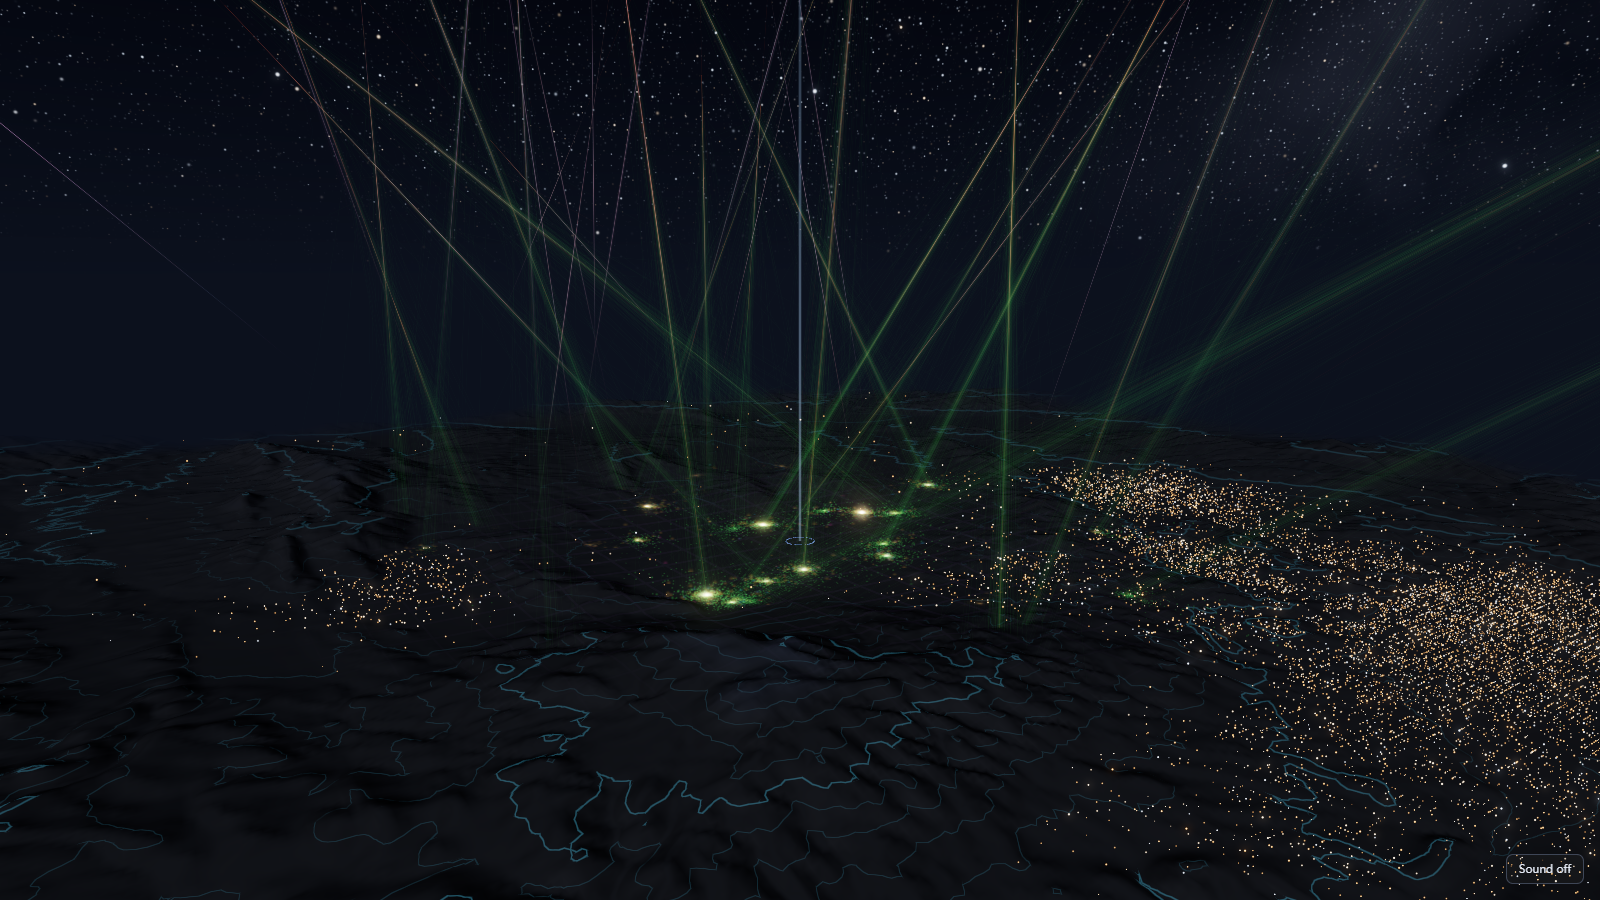
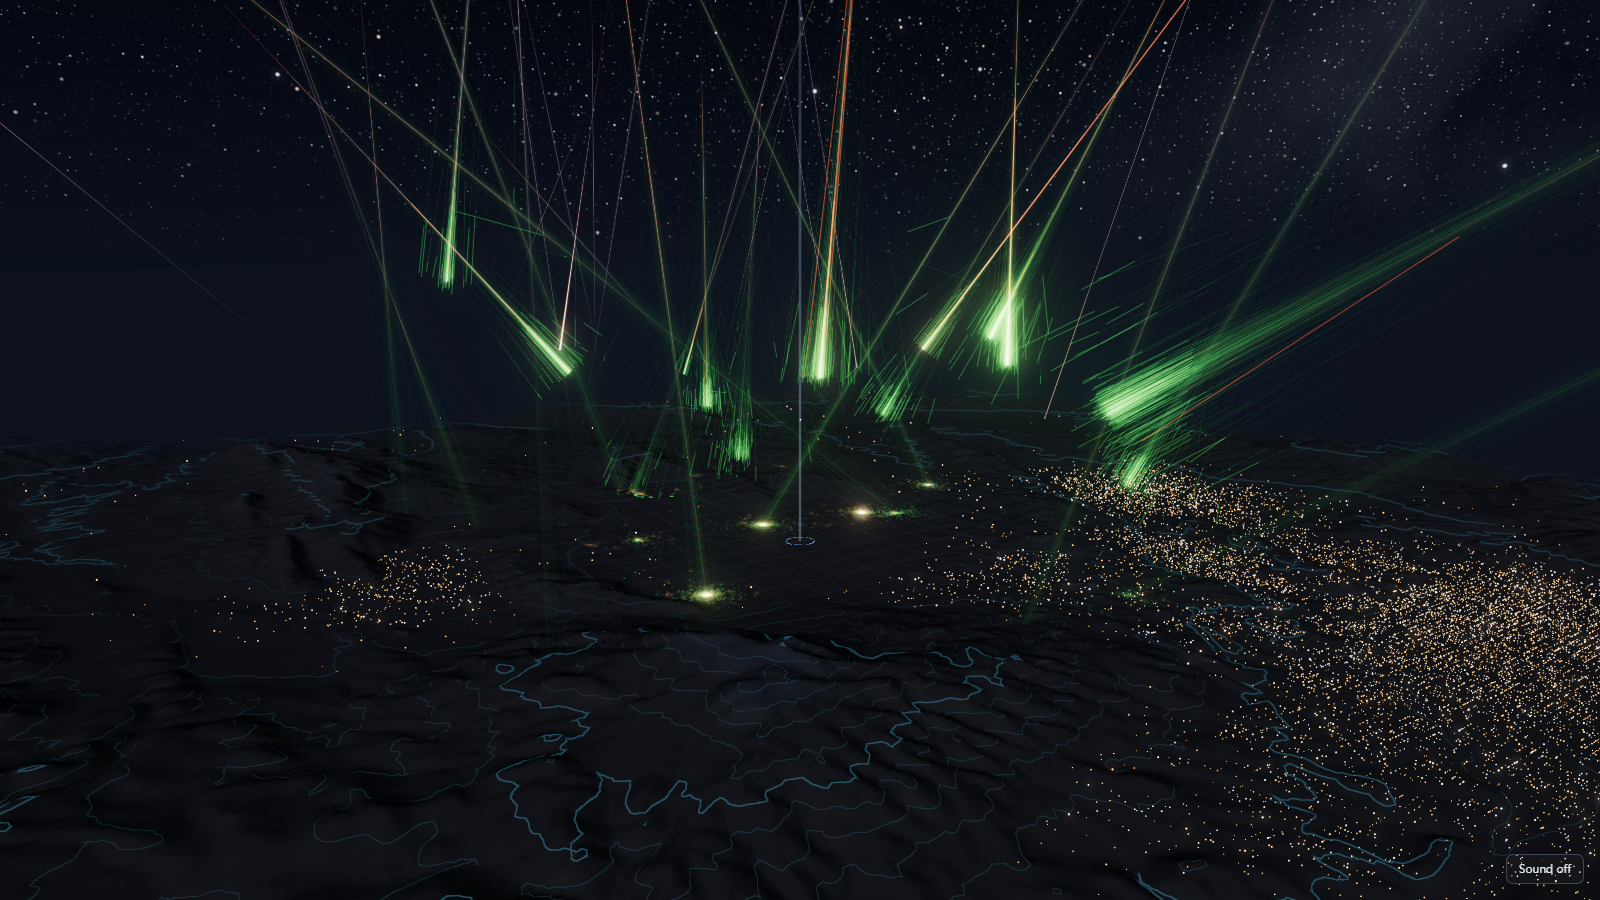
EOWC-CHG-20261126-015: Run sky mode on a pool of workers
planSky draws the arrivals and shower parameters (seeded, pure);
showers run in parallel on up to hardwareConcurrency - 1 workers (max 8);
mergeSky puts them on the common clock. Sequential simulateSky kept for
tests. 36 showers: ~9 s -> ~2 s. Sound button hidden in clean mode.

Claude-Session: https://claude.ai/code/session_01Gyk7Xu6P7vpPZ5udwuQcZq

diff --git a/Cascade/src/physics/sky.ts b/Cascade/src/physics/sky.ts
@@ -4,7 +4,7 @@
 // simulated and merged into one replay on a common clock.
 import { simulateShower, DEFAULT_PARAMS } from './cascade';
 import { Rng } from './rng';
-import { GND_STRIDE, RCLASS_COUNT, SEG_STRIDE, type Primary, type ShowerResult } from './types';
+import { GND_STRIDE, RCLASS_COUNT, SEG_STRIDE, type Primary, type ShowerParams, type ShowerResult } from './types';
 
 export interface SkyOptions {
   showers: number;
@@ -50,86 +50,114 @@ function integralFlux(eEV: number): number {
   return below + (atKnee * knee) / 2.1;
 }
 
-export function simulateSky(o: SkyOptions, onProgress?: (f: number, tracked: number) => void): { result: ShowerResult; info: SkyInfo; brightest: ShowerResult } {
+export interface SkyPlan {
+  options: SkyOptions;
+  /** Parameters of each shower, in arrival order. */
+  params: ShowerParams[];
+  /** Arrival time of each shower's core at the ground, ns. */
+  arrivals: number[];
+  ratePerSecond: number;
+}
+
+/** Draw the showers: Poisson arrivals, energies, composition, directions, cores. Pure and seeded. */
+export function planSky(o: SkyOptions): SkyPlan {
   const rng = new Rng(o.seed);
   const perShower = Math.max(2000, Math.floor(o.maxSegments / o.showers));
-  const segs: Float32Array[] = [];
-  const gnds: Float32Array[] = [];
-  const energies: number[] = [];
-  const prims: Primary[] = [];
-  let tracked = 0;
-  let best: ShowerResult | null = null;
-  let bestShift = 0;
-  let bestE = 0;
-  let segTotal = 0, gndTotal = 0;
-  let tMin = Infinity, tMax = -Infinity;
-  const profiles: ShowerResult['profile'][] = [];
   const area = (2 * o.halfWidthM) ** 2;
   const rate = integralFlux(o.eMinEV) * Math.PI * 0.75 * area; // showers per second above eMin into the square
+  const params: ShowerParams[] = [];
+  const arrivals: number[] = [];
   let tArrive = 0;
-  let firstCore = Infinity;
   for (let k = 0; k < o.showers; k++) {
     tArrive += rng.exp(1e9 / rate); // ns
-    // Differential spectrum E^-2.7 (inverse CDF); the knee is above where most land anyway.
+    // Differential spectrum E^-2.7 (inverse CDF); the knee is above where nearly all of them land.
     const a = Math.pow(o.eMinEV, -1.7), bq = Math.pow(o.eMaxEV, -1.7);
     const E = Math.pow(a - rng.uniform() * (a - bq), -1 / 1.7);
     const u = rng.uniform();
     const primary: Primary = u < 0.45 ? 'proton' : u < 0.75 ? 'helium' : u < 0.9 ? 'nitrogen' : 'iron';
     const cosT = Math.sqrt(1 - rng.uniform() * 0.75); // up to 60 deg, flux through a horizontal plane
-    const r = simulateShower({
-      ...DEFAULT_PARAMS,
-      primary,
-      energyEV: E,
-      zenithDeg: (Math.acos(cosT) * 180) / Math.PI,
-      azimuthDeg: 360 * rng.uniform(),
-      seed: (o.seed * 7919 + k * 104729) >>> 0,
-      thinning: o.thinning,
-      maxSegments: perShower,
-      coreX: (rng.uniform() * 2 - 1) * o.halfWidthM,
-      coreY: (rng.uniform() * 2 - 1) * o.halfWidthM,
-      recordTracks: true,
+    const azimuthDeg = 360 * rng.uniform();
+    const coreX = (rng.uniform() * 2 - 1) * o.halfWidthM;
+    const coreY = (rng.uniform() * 2 - 1) * o.halfWidthM;
+    params.push({
+      ...DEFAULT_PARAMS, primary, energyEV: E, zenithDeg: (Math.acos(cosT) * 180) / Math.PI, azimuthDeg,
+      seed: (o.seed * 7919 + k * 104729) >>> 0, thinning: o.thinning, maxSegments: perShower, coreX, coreY, recordTracks: true,
     });
-    tracked += r.stats.particlesTracked;
-    // Put the core's arrival at its Poisson arrival time.
-    const shift = tArrive - r.stats.tCore;
-    firstCore = Math.min(firstCore, tArrive);
+    arrivals.push(tArrive);
+  }
+  return { options: o, params, arrivals, ratePerSecond: rate };
+}
+
+/** Put every simulated shower on the common clock and merge them into one replay. Mutates the inputs' arrays. */
+export function mergeSky(plan: SkyPlan, showers: ShowerResult[]): { result: ShowerResult; info: SkyInfo; brightest: ShowerResult } {
+  let tracked = 0, segTotal = 0, gndTotal = 0;
+  let tMin = Infinity, tMax = -Infinity;
+  let bi = 0;
+  const shifts: number[] = [];
+  showers.forEach((r, k) => {
+    const shift = plan.arrivals[k]! - r.stats.tCore;
+    shifts.push(shift);
     const s = r.segments;
     for (let i = 0; i < r.segmentCount; i++) { s[i * SEG_STRIDE + 3]! += shift; s[i * SEG_STRIDE + 7]! += shift; }
     const g = r.ground;
     for (let i = 0; i < r.groundCount; i++) g[i * GND_STRIDE + 2]! += shift;
     tMin = Math.min(tMin, r.stats.tMin + shift);
     tMax = Math.max(tMax, r.stats.tMax + shift);
-    segs.push(s); gnds.push(g); segTotal += r.segmentCount; gndTotal += r.groundCount;
-    profiles.push(r.profile);
-    energies.push(E); prims.push(primary);
-    if (E > bestE) { bestE = E; best = r; bestShift = shift; }
-    onProgress?.((k + 1) / o.showers, tracked);
-  }
+    tracked += r.stats.particlesTracked;
+    segTotal += r.segmentCount;
+    gndTotal += r.groundCount;
+    if (plan.params[k]!.energyEV > plan.params[bi]!.energyEV) bi = k;
+  });
   const segments = new Float32Array(segTotal * SEG_STRIDE);
-  let off = 0;
-  for (const s of segs) { segments.set(s, off); off += s.length; }
   const ground = new Float32Array(gndTotal * GND_STRIDE);
-  off = 0;
-  for (const g of gnds) { ground.set(g, off); off += g.length; }
+  let so = 0, go = 0;
+  for (const r of showers) {
+    segments.set(r.segments.subarray(0, r.segmentCount * SEG_STRIDE), so); so += r.segmentCount * SEG_STRIDE;
+    ground.set(r.ground.subarray(0, r.groundCount * GND_STRIDE), go); go += r.groundCount * GND_STRIDE;
+  }
+  const profiles = showers.map((r) => r.profile);
   const bins = Math.max(...profiles.map((p) => p.bins));
+  const sum = (pick: (p: ShowerResult['profile']) => Float64Array): Float64Array => {
+    const a = new Float64Array(bins);
+    for (const p of profiles) pick(p).forEach((v, i) => { a[i]! += v; });
+    return a;
+  };
   const profile = {
     step: profiles[0]!.step, bins,
-    byClass: Array.from({ length: RCLASS_COUNT }, (_, c) => { const a = new Float64Array(bins); for (const p of profiles) p.byClass[c]!.forEach((v, i) => { a[i]! += v; }); return a; }),
-    charged: (() => { const a = new Float64Array(bins); for (const p of profiles) p.charged.forEach((v, i) => { a[i]! += v; }); return a; })(),
+    byClass: Array.from({ length: RCLASS_COUNT }, (_, c) => sum((p) => p.byClass[c]!)),
+    charged: sum((p) => p.charged),
   };
-  const b = best!;
+  const b = showers[bi]!;
   // The brightest shower's arrays were shifted onto the common clock; shift its stats too.
-  b.stats = { ...b.stats, tMin: b.stats.tMin + bestShift, tMax: b.stats.tMax + bestShift, tCore: b.stats.tCore + bestShift };
+  b.stats = { ...b.stats, tMin: b.stats.tMin + shifts[bi]!, tMax: b.stats.tMax + shifts[bi]!, tCore: b.stats.tCore + shifts[bi]! };
+  const first = plan.arrivals[0]!, last = plan.arrivals[plan.arrivals.length - 1]!;
   const result: ShowerResult = {
     params: { ...b.params },
     segments, segmentCount: segTotal, ground, groundCount: gndTotal, profile,
-    // The clock window: from shortly before the first core lands to shortly after the last,
-    // so a few slow hadrons do not stretch the replay.
-    stats: { ...b.stats, tMin: Math.max(tMin, firstCore - 60_000), tMax: Math.min(tMax, tArrive + 25_000), particlesTracked: tracked, truncated: true },
+    // From shortly before the first core lands to shortly after the last, so a few slow hadrons
+    // do not stretch the replay.
+    stats: { ...b.stats, tMin: Math.max(tMin, first - 60_000), tMax: Math.min(tMax, last + 25_000), particlesTracked: tracked, truncated: true },
   };
+  const energies = plan.params.map((p) => p.energyEV);
   return {
     result,
     brightest: b,
-    info: { showers: o.showers, realSpanSeconds: tArrive * 1e-9, ratePerSecond: rate, energiesEV: energies, primaries: prims, brightest: energies.indexOf(bestE) },
+    info: {
+      showers: showers.length, realSpanSeconds: last * 1e-9, ratePerSecond: plan.ratePerSecond,
+      energiesEV: energies, primaries: plan.params.map((p) => p.primary), brightest: bi,
+    },
   };
+}
+
+/** Sequential sky (tests, Node): plan, simulate each shower, merge. */
+export function simulateSky(o: SkyOptions, onProgress?: (f: number, tracked: number) => void): { result: ShowerResult; info: SkyInfo; brightest: ShowerResult } {
+  const plan = planSky(o);
+  let tracked = 0;
+  const showers = plan.params.map((p, k) => {
+    const r = simulateShower(p);
+    tracked += r.stats.particlesTracked;
+    onProgress?.((k + 1) / plan.params.length, tracked);
+    return r;
+  });
+  return mergeSky(plan, showers);
 }

diff --git a/Cascade/src/sim/client.ts b/Cascade/src/sim/client.ts
@@ -1,7 +1,7 @@
 // Main-thread wrapper around the simulation worker. A new run cancels the previous
 // one by terminating its worker, so a long shower never blocks a new request.
 import type { ShowerParams, ShowerResult, WorkerRequest, WorkerResponse } from '../physics/types';
-import type { SkyInfo, SkyOptions } from '../physics/sky';
+import { mergeSky, planSky, type SkyInfo, type SkyOptions } from '../physics/sky';
 
 export interface SkyRun { result: ShowerResult; brightest: ShowerResult; info: SkyInfo }
 
@@ -11,6 +11,53 @@ export class SimClient {
   private worker: Worker | null = null;
   private nextId = 1;
   private reject: ((e: Error) => void) | null = null;
+  private pool: Worker[] = [];
+
+  /**
+   * Sky mode on a pool of workers: the plan (arrivals, energies, directions) is drawn here,
+   * the showers run in parallel, and the merge happens on this thread.
+   */
+  async skyParallel(options: SkyOptions, onProgress: Progress): Promise<SkyRun> {
+    this.cancel();
+    const plan = planSky(options);
+    const total = plan.params.length;
+    const n = Math.max(1, Math.min(total, (navigator.hardwareConcurrency || 4) - 1, 8));
+    const results: ShowerResult[] = new Array<ShowerResult>(total);
+    let next = 0, done = 0, tracked = 0;
+    const workers: Worker[] = [];
+    this.pool = workers;
+    try {
+      await new Promise<void>((resolve, reject) => {
+        this.reject = reject;
+        const feed = (w: Worker): void => {
+          if (next >= total) return;
+          const k = next++;
+          w.postMessage({ kind: 'run', id: k + 1, params: plan.params[k]! } satisfies WorkerRequest);
+        };
+        for (let i = 0; i < n; i++) {
+          const w = new Worker(new URL('./worker.ts', import.meta.url), { type: 'module' });
+          workers.push(w);
+          w.onmessage = (ev: MessageEvent<WorkerResponse>) => {
+            const m = ev.data;
+            if (m.kind === 'done') {
+              results[m.id - 1] = m.result;
+              done++;
+              tracked += m.result.stats.particlesTracked;
+              onProgress(done / total, tracked);
+              if (done === total) resolve(); else feed(w);
+            } else if (m.kind === 'error') reject(new Error(m.message));
+          };
+          w.onerror = (e) => reject(new Error(e.message || 'worker error'));
+          feed(w);
+        }
+      });
+    } finally {
+      for (const w of workers) w.terminate();
+      if (this.pool === workers) this.pool = [];
+      this.reject = null;
+    }
+    return mergeSky(plan, results);
+  }
 
   run(params: ShowerParams, onProgress: Progress): Promise<ShowerResult> {
     return this.request({ kind: 'run', id: 0, params }, onProgress) as Promise<ShowerResult>;
@@ -41,6 +88,12 @@ export class SimClient {
   }
 
   cancel(): void {
+    if (this.pool.length) {
+      for (const w of this.pool) w.terminate();
+      this.pool = [];
+      this.reject?.(new Error('cancelled'));
+      this.reject = null;
+    }
     if (this.worker) {
       this.worker.terminate();
       this.worker = null;

diff --git a/Cascade/src/app/main.ts b/Cascade/src/app/main.ts
@@ -138,7 +138,7 @@ async function runSky(): Promise<void> {
   controls.setBusy(0, 'Filling the sky...');
   try {
     const opts = { ...DEFAULT_SKY, seed: skySeed++, maxSegments: SEGMENTS[quality], showers: quality === 'low' ? 20 : DEFAULT_SKY.showers };
-    const { result: r, brightest, info } = await sim.sky(opts, (f, n) => {
+    const { result: r, brightest, info } = await sim.skyParallel(opts, (f, n) => {
       controls.setBusy(f, `Sky: ${Math.round(f * opts.showers)} of ${opts.showers} showers - ${n.toLocaleString()} particles`);
     });
     controls.setBusy(null);

diff --git a/Cascade/src/styles.css b/Cascade/src/styles.css
@@ -831,7 +831,7 @@ button { cursor: pointer; }
 }
 
 /* presentation mode (H key or ?clean) */
-.cx-clean .cx-hud, .cx-clean .cx-toasts { display: none; }
+.cx-clean .cx-hud, .cx-clean .cx-toasts, .cx-clean .cx-sound { display: none; }
 
 /* detector line in the readout */
 .cx-det { grid-column: 1 / -1; margin-top: 8px; padding-top: 7px; border-top: 1px solid var(--hair); display: flex; flex-wrap: wrap; align-items: baseline; gap: 2px 12px; font-family: ui-monospace, "SF Mono", "Cascadia Mono", Consolas, monospace; font-size: 11.5px; color: var(--text-2); cursor: help; }

diff --git a/docs/changes/LEDGER.md b/docs/changes/LEDGER.md
@@ -16,3 +16,4 @@
 | EOWC-FIX-20261126-012 | check-commit-msg CLI no longer runs on import (gate crash) |
 | EOWC-CHG-20261126-013 | Shower-core hit-rate estimate and the Data panel section comparing it with the EAS categories |
 | EOWC-CHG-20261126-014 | Sky mode: Poisson-timed showers from the spectrum over the valley |
+| EOWC-CHG-20261126-015 | Sky mode on a worker pool (plan / simulate / merge), 9 s to 2 s |
